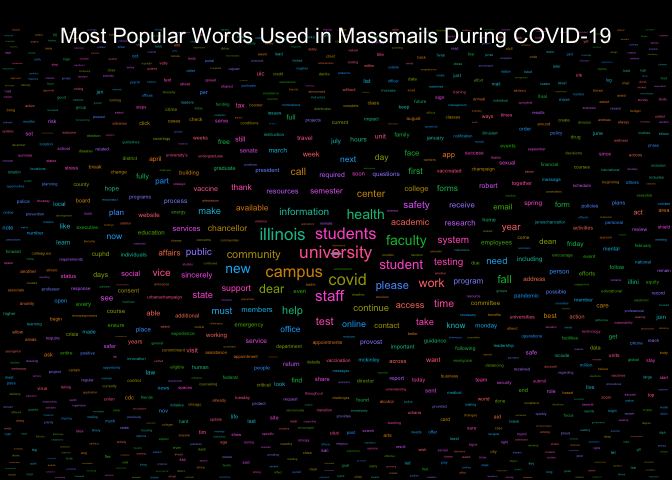
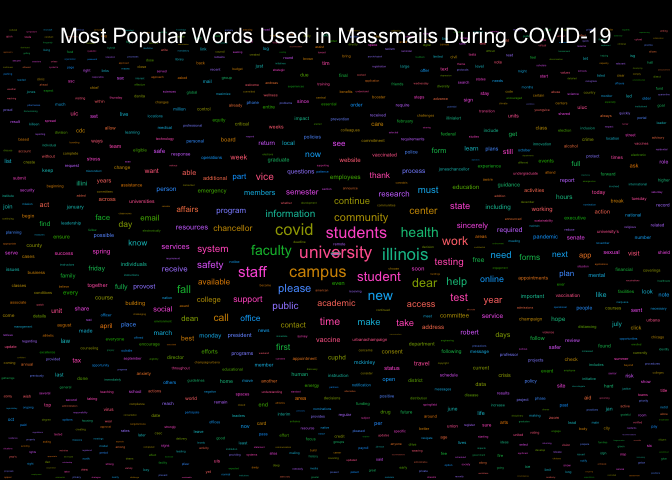
Re-build README.Rmd and Graphs

Changed region(s): [[0.0, 0.0625, 1.0, 1.0], [0.9688, 0.9688, 1.0, 1.0]]

diff --git a/README.md b/README.md
@@ -17,7 +17,7 @@ The archive may be viewed here:
 
 <https://massmail.illinois.edu/massmailArchive>
 
-Data has **778** observations and **7** variables:
+Data has **780** observations and **7** variables:
 
 - `datetime`: Date and time when the email was sent in the form of
   `YYYY-MM-DD HMS` with either CDT or CST.
@@ -210,16 +210,16 @@ head(most_popular_words, 10) %>%
 
 | word       | freq |
 |:-----------|-----:|
-| university | 2147 |
-| students   | 1808 |
-| campus     | 1608 |
+| university | 2153 |
+| students   | 1811 |
+| campus     | 1612 |
 | illinois   | 1439 |
 | covid      | 1070 |
 | student    | 1058 |
-| faculty    | 1047 |
+| faculty    | 1049 |
+| community  |  996 |
 | health     |  996 |
-| community  |  989 |
-| staff      |  891 |
+| staff      |  894 |
 
 #### Wordcloud
 
